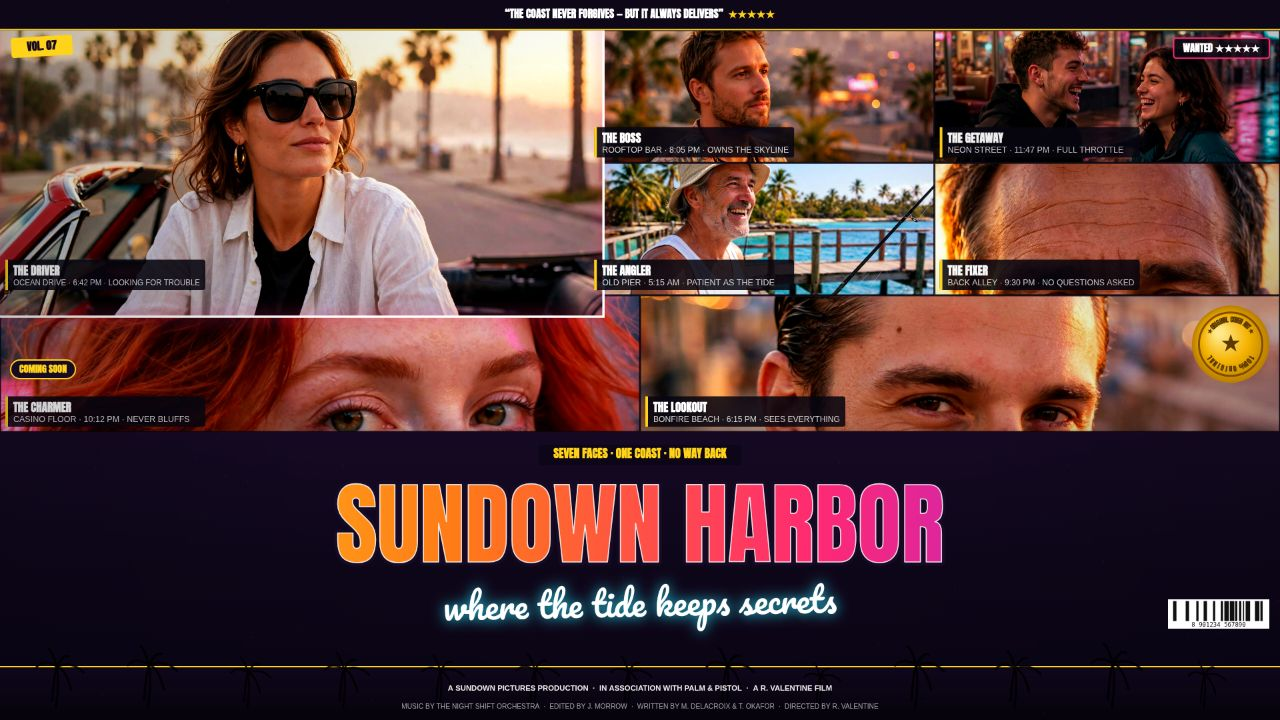
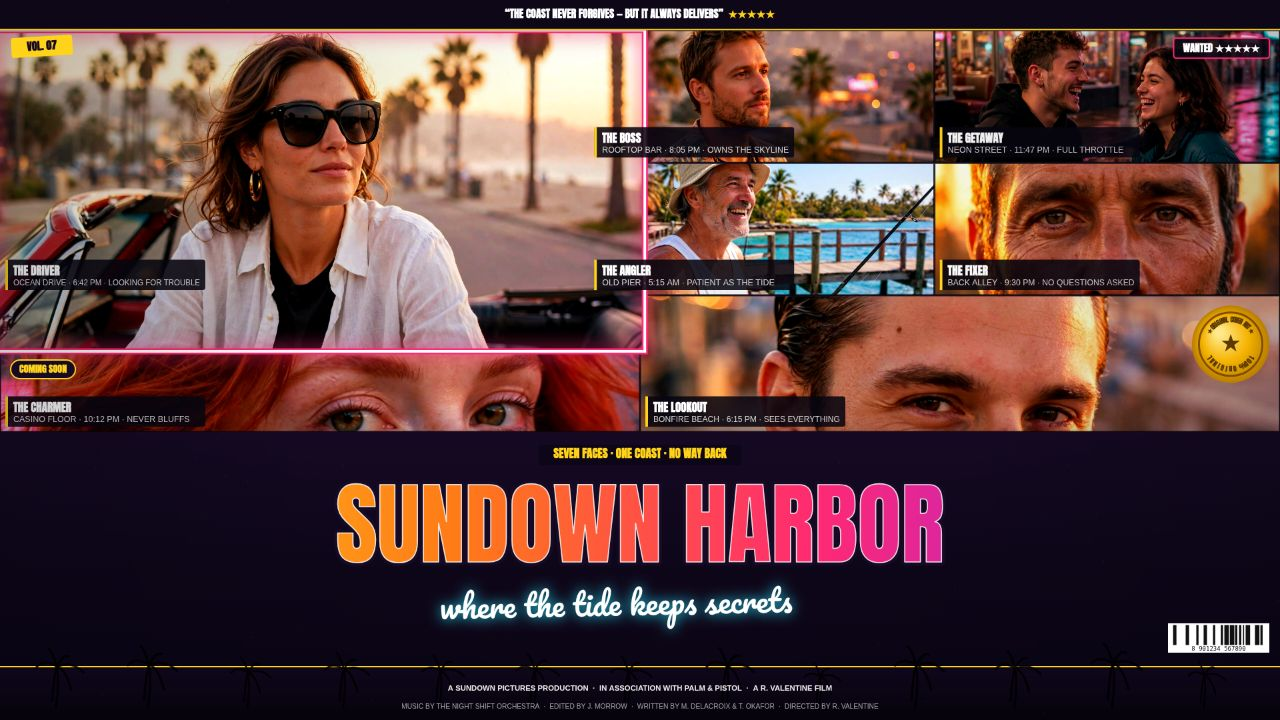
gta6-cover-art-01 v1 fix3: subtitle clear of barcode, fixer eyes, no duplicate faces, firm pop-out hero

diff --git a/app/src/cover.js b/app/src/cover.js
@@ -21,7 +21,7 @@ export const DEFAULT_CAST = [
   { photo: 'samples/man-rooftop.jpg', role: 'THE BOSS', place: 'ROOFTOP BAR', time: '8:05 PM', note: 'OWNS THE SKYLINE', zoom: 1.1, flip: false, fx: 0.5, fy: 0.4 },
   { photo: 'samples/friends-neon.jpg', role: 'THE GETAWAY', place: 'NEON STREET', time: '11:47 PM', note: 'FULL THROTTLE', zoom: 1.1, flip: false, fx: 0.5, fy: 0.45 },
   { photo: 'samples/man-pier.jpg', role: 'THE ANGLER', place: 'OLD PIER', time: '5:15 AM', note: 'PATIENT AS THE TIDE', zoom: 1.12, flip: false, fx: 0.5, fy: 0.4 },
-  { photo: 'samples/man-beard.jpg', role: 'THE FIXER', place: 'BACK ALLEY', time: '9:30 PM', note: 'NO QUESTIONS ASKED', zoom: 1.35, flip: false, fx: 0.5, fy: 0.32 },
+  { photo: 'samples/man-beard.jpg', role: 'THE FIXER', place: 'BACK ALLEY', time: '9:30 PM', note: 'NO QUESTIONS ASKED', zoom: 1.15, flip: false, fx: 0.5, fy: 0.45 },
   { photo: 'samples/woman-redhair.jpg', role: 'THE CHARMER', place: 'CASINO FLOOR', time: '10:12 PM', note: 'NEVER BLUFFS', zoom: 1.3, flip: false, fx: 0.5, fy: 0.3 },
   { photo: 'samples/man-tattoo.jpg', role: 'THE LOOKOUT', place: 'BONFIRE BEACH', time: '6:15 PM', note: 'SEES EVERYTHING', zoom: 1.3, flip: false, fx: 0.5, fy: 0.3 },
 ];
@@ -415,9 +415,13 @@ function drawTitleBlock(ctx, W, H, state, fx) {
   ctx.restore();
 
   // Line 2: Pacifico script, white/cyan — always high contrast over dark.
-  const subPx = fitFont(ctx, state.subtitle, (px) => `${px}px Pacifico, cursive`, W * 0.8, H * 0.048);
+  // Smaller than before and shifted left: in portrait the subtitle's
+  // last word ran under the barcode's white box (its right edge crossed
+  // the box's left edge by ~39px), so the final "s" of "secrets" was
+  // covered. It now ends well clear of the box.
+  const subPx = fitFont(ctx, state.subtitle, (px) => `${px}px Pacifico, cursive`, W * 0.78, H * 0.043);
   ctx.save();
-  ctx.translate(W / 2, H * 0.845);
+  ctx.translate(W / 2 - 36 * s, H * 0.845);
   ctx.rotate(-0.02);
   ctx.textAlign = 'center';
   ctx.textBaseline = 'middle';
@@ -510,11 +514,13 @@ function drawFurniture(ctx, W, H, state, seed) {
   // CHARMER label's second line in the nine-panel layout).
   drawGoldSeal(ctx, W - 74 * s, H * 0.478, 58 * s);
 
-  // Barcode, bottom right, lifted well clear of the palm band: palm
-  // fronds reach ~0.034H above the band and used to cross the barcode's
-  // number, and the box nearly touched the gold divider. Its white box
-  // now ends ~0.05H above the band, above every frond tip.
-  drawBarcode(ctx, W - 168 * s, H * 0.925 - 100 * s, 152 * s, 44 * s, seed);
+  // Barcode, bottom right, lifted clear of the palm band and lowered
+  // away from the subtitle: palm fronds used to cross the barcode's
+  // number, and in portrait the subtitle's last word ran under this
+  // white box. The box now sits lower (its bottom stays above every
+  // frond tip) while the subtitle is smaller and shifted left, so the
+  // two never meet.
+  drawBarcode(ctx, W - 168 * s, H * 0.925 - 64 * s, 152 * s, 44 * s, seed);
 
   // Palm band + two-line production footer.
   const bandY = H * 0.925;
@@ -611,14 +617,15 @@ export function renderCover(canvas, state, images) {
     const px = r.x * W, py = r.y * H, pw = r.w * W, ph = r.h * H;
     const isHero = i === heroIdx && state.popout;
     // Pop-out hero (T2): the hero photo genuinely breaks out of its
-    // frame — well past the right and bottom edges, over the neighbours
-    // — with a white edge + pink glow. (The old 6px nudge was invisible:
-    // the lift went under the quote strip, drawn later, and the clipped
-    // stroke + glow never spilled outside the panel.)
+    // frame — 84px past the right and bottom edges, over the neighbours
+    // — with a pink rim + white edge + pink glow. (The old 28/32px nudge
+    // read as a neat grid: its lift went under the quote strip, drawn
+    // later, and the small breakout never looked like a cut-out. The top
+    // edge stays at the panel top — there is no room above it.)
     let ex = px, ey = py, ew = pw, eh = ph;
     if (isHero) {
-      const lift = H * 0.028;
-      ex = px - 6 * s; ey = py - lift; ew = pw + 28 * s; eh = ph + lift + 32 * s;
+      const out = 84 * s;
+      ex = px - 8 * s; ey = py; ew = pw + 8 * s + out; eh = ph + out;
     }
     ctx.save();
     clipPanel(ctx, ex, ey, ew, eh, r.slant);
@@ -636,12 +643,19 @@ export function renderCover(canvas, state, images) {
     // Frame: thin dark gutter + optional white pop-out edge + glow.
     ctx.save();
     if (isHero) {
+      // Stroke WITHOUT the clip: the pink rim, white edge and pink glow
+      // must spill outside the expanded frame, or the pop-out reads flat.
+      // Pink rim first (wide), white edge on top: the pink peeks out on
+      // both sides of the white line, so the cut-out edge reads at a glance.
       ctx.shadowColor = '#ff2975';
-      ctx.shadowBlur = (fx.glow / 100) * 26 + 8;
+      ctx.shadowBlur = (fx.glow / 100) * 30 + 10;
+      ctx.strokeStyle = '#ff2975';
+      ctx.lineWidth = Math.max(6, 9 * s);
+      panelPath(ctx, ex, ey, ew, eh, r.slant);
+      ctx.stroke();
+      ctx.shadowBlur = 0;
       ctx.strokeStyle = '#ffffff';
-      ctx.lineWidth = Math.max(2.5, 3.5 * s);
-      // Stroke WITHOUT the clip: the white edge and the pink glow must
-      // spill outside the expanded frame, or the pop-out reads as flat.
+      ctx.lineWidth = Math.max(2.5, 4 * s);
       panelPath(ctx, ex, ey, ew, eh, r.slant);
       ctx.stroke();
     } else {

diff --git a/app/src/shots.js b/app/src/shots.js
@@ -72,10 +72,8 @@ async function shotEditor() {
     renderPreview();
     await new Promise((r) => requestAnimationFrame(() => requestAnimationFrame(r)));
   }
-  // Show the export confirmation toast, pinned (no auto-hide in the shot).
-  const toastEl = document.getElementById('toast');
-  toastEl.textContent = 'Saved sundown-harbor-1920x1080.png — 1920 × 1080 PNG.';
-  toastEl.classList.add('show');
+  // The toast stays hidden in the shot: pinned, it covered ~34% of the
+  // "Export all three" button at this viewport. The button must read whole.
   window.__shotReady = true;
 }
 
